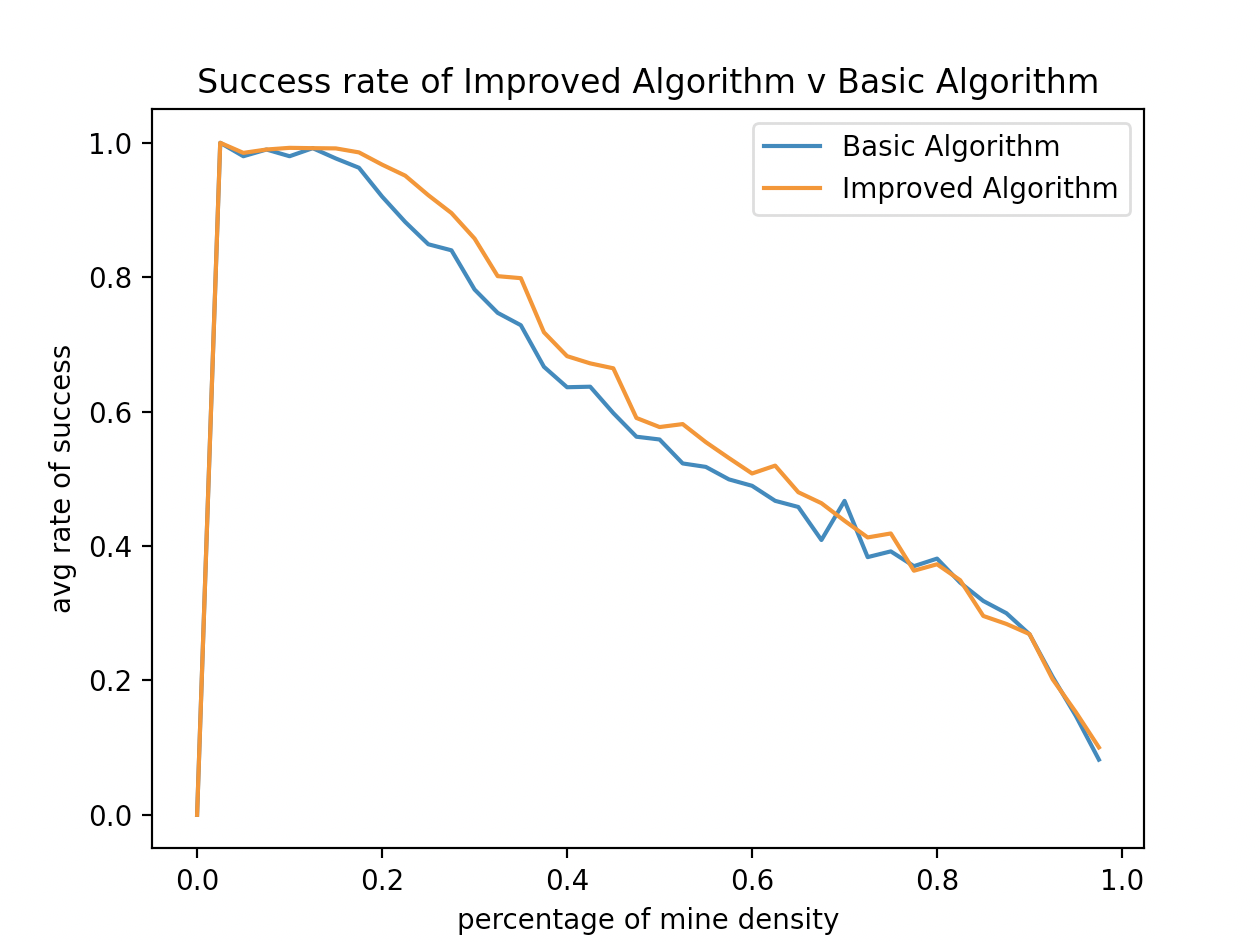
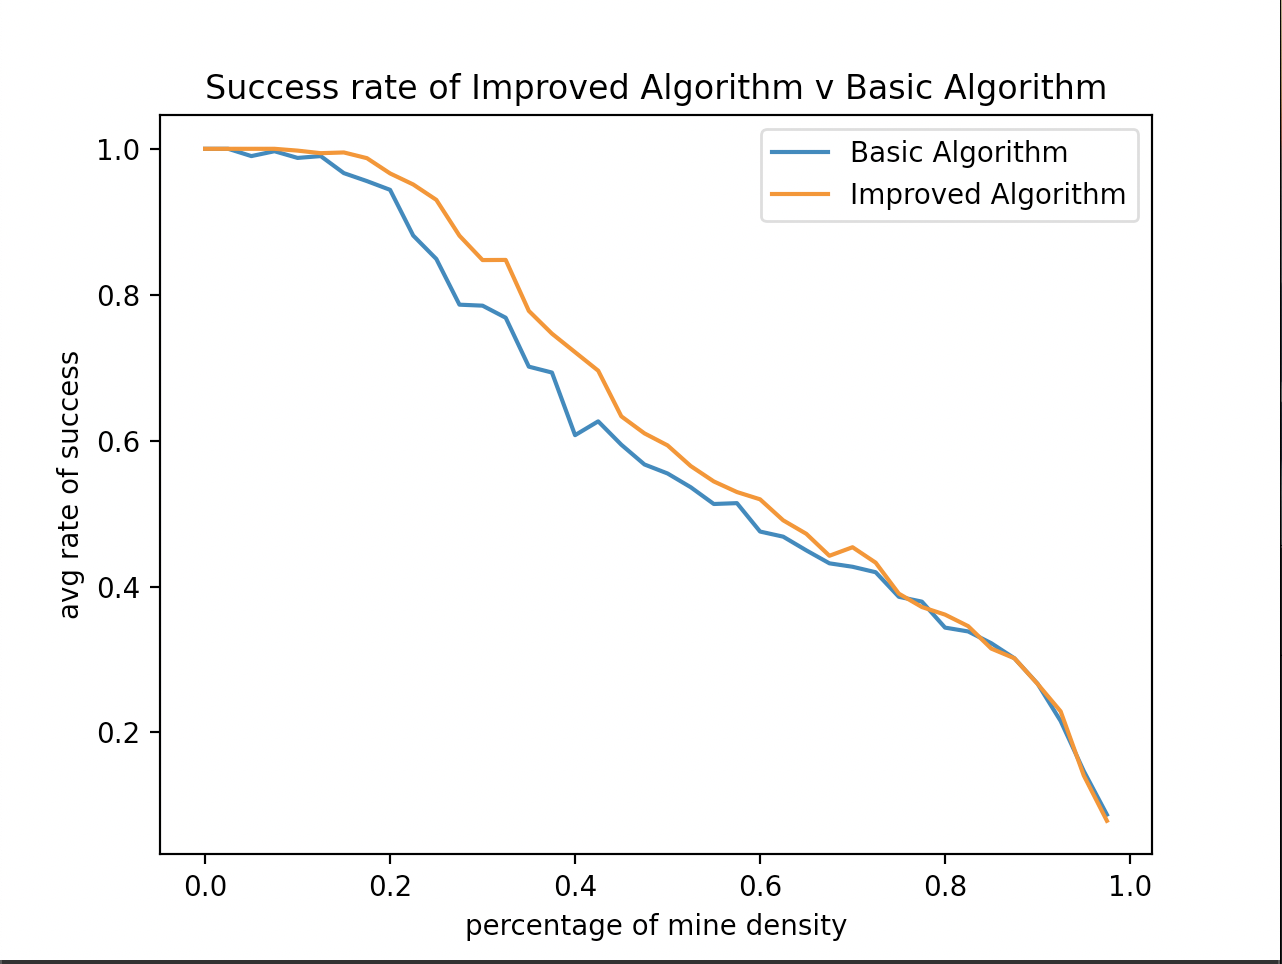
new plot

diff --git a/generatePlot.py b/generatePlot.py
@@ -61,7 +61,7 @@ def improvedPlot():
     plt.show()
 
 def betterImprovedPlot():
-    dimension = 20
+    dimension = 10
     average =10
     
     basicSuccess = []
@@ -161,4 +161,4 @@ def globalImprovedPlot():
     plt.legend()
     plt.show()
 
-improvedPlot()
+betterImprovedPlot()
